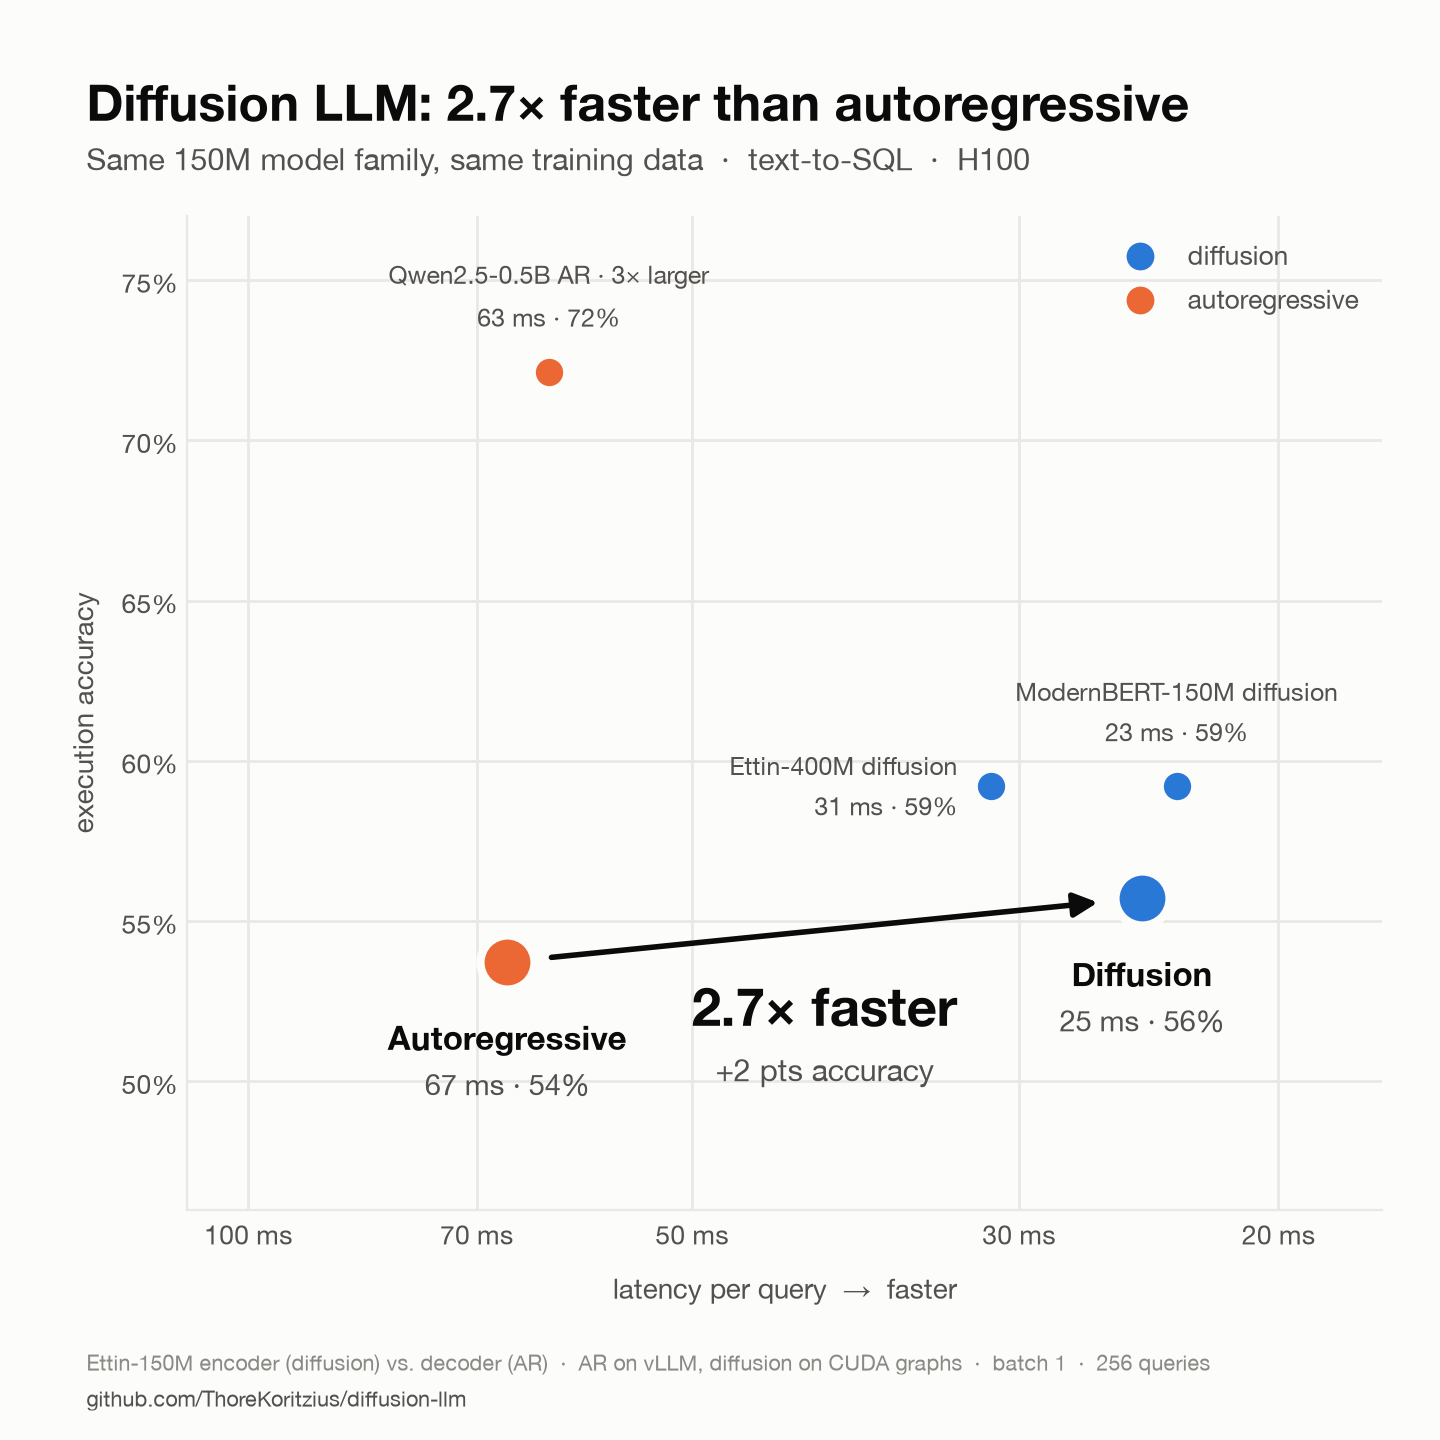
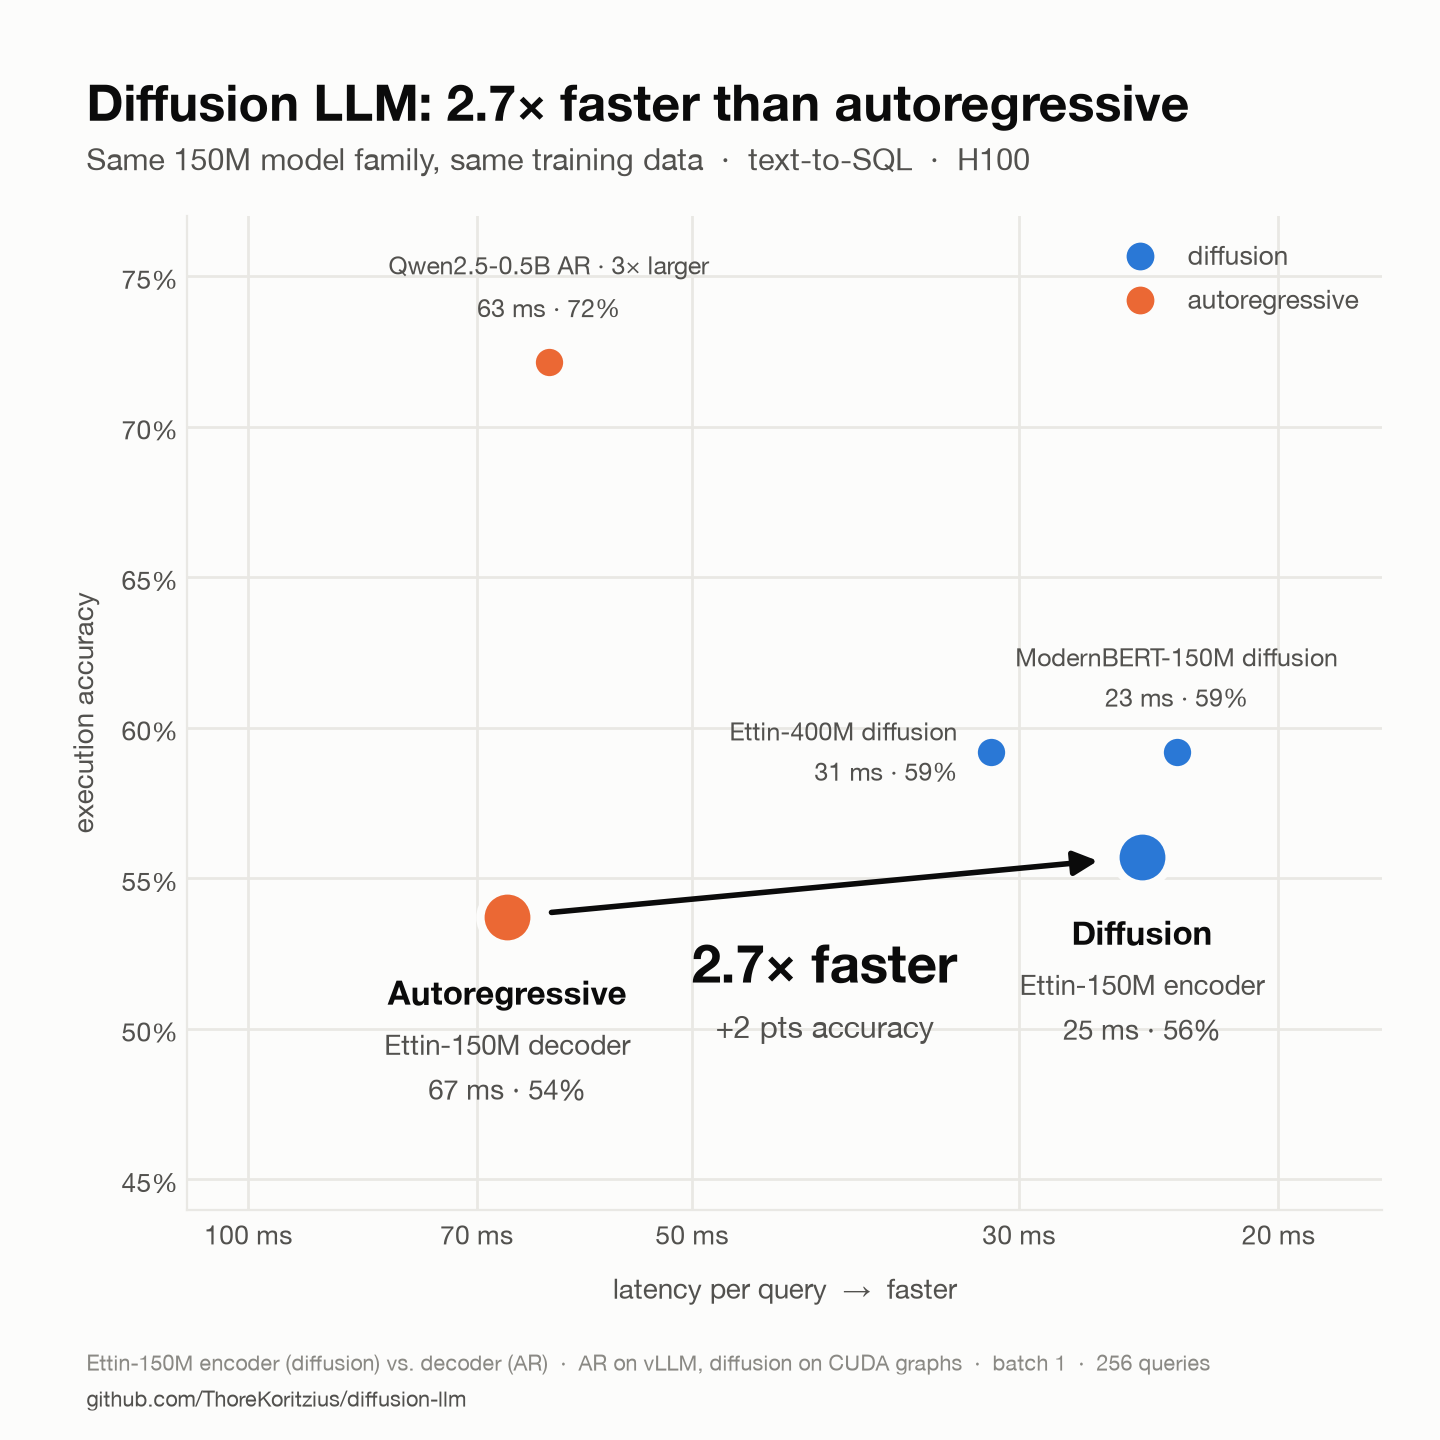
plots: name the models under the highlighted GPU pair
Claude-Session: https://claude.ai/code/session_01G6Bm8s1uyizXtz9t5ZCZAw

diff --git a/experiments/2026-10-12_gpu-session/make_gpu_square.py b/experiments/2026-10-12_gpu-session/make_gpu_square.py
@@ -17,7 +17,8 @@ from make_headline_chart import COLOR, GRID, HERE, INK, INK_2, MUTED, SURFACE, l
 
 HERO_AR, HERO_DIFF = "ettin150-ar-10ep-vllm", "ettin150-diffusion-iso-10ep-distilled-bf16-cudagraphs"
 # (label, arm, gpu summary): the matched Ettin-150M pair, emphasised
-HERO = [("Autoregressive", "ar", HERO_AR), ("Diffusion", "diffusion", HERO_DIFF)]
+HERO = [("Autoregressive", "Ettin-150M decoder", "ar", HERO_AR),
+        ("Diffusion", "Ettin-150M encoder", "diffusion", HERO_DIFF)]
 # (label, arm, gpu summary, label offset (dx, dy, ha, va)): other models, for context
 CONTEXT = [
     ("Qwen2.5-0.5B AR · 3× larger", "ar", "sql-ar-qwen25-coder-0.5b-ar-vllm", (0, 12, "center", "bottom")),
@@ -41,7 +42,7 @@ def main():
     ax.set_facecolor(SURFACE)
     ax.set_xscale("log")
     ax.set_xlim(110, 17)  # reversed: faster to the right, so up-and-right is better
-    ax.set_ylim(46, 77)
+    ax.set_ylim(44, 77)
 
     (xa, ya), (xd, yd) = point(HERO_AR), point(HERO_DIFF)
 
@@ -59,13 +60,13 @@ def main():
     ax.annotate(f"{yd - ya:+.0f} pts accuracy", mid, xytext=(0, -44), textcoords="offset points", ha="center",
                 va="top", fontsize=11, color=INK_2)
 
-    for label, arm, name in HERO:
+    for label, model, arm, name in HERO:
         x, y = point(name)
         ax.scatter(x, y, s=380, color=COLOR[arm], edgecolor=SURFACE, linewidth=3, zorder=4)
         ax.annotate(label, (x, y), xytext=(0, -20), textcoords="offset points", ha="center", va="top",
                     fontsize=12, fontweight="bold", color=INK)
-        ax.annotate(f"{x:.0f} ms · {y:.0f}%", (x, y), xytext=(0, -38), textcoords="offset points", ha="center",
-                    va="top", fontsize=10.5, color=INK_2)
+        ax.annotate(f"{model}\n{x:.0f} ms · {y:.0f}%", (x, y), xytext=(0, -38), textcoords="offset points",
+                    ha="center", va="top", fontsize=10, color=INK_2, linespacing=1.4)
 
     ax.set_xticks([100, 70, 50, 30, 20])
     ax.xaxis.set_major_formatter(matplotlib.ticker.FuncFormatter(lambda v, _: f"{v:g} ms"))
